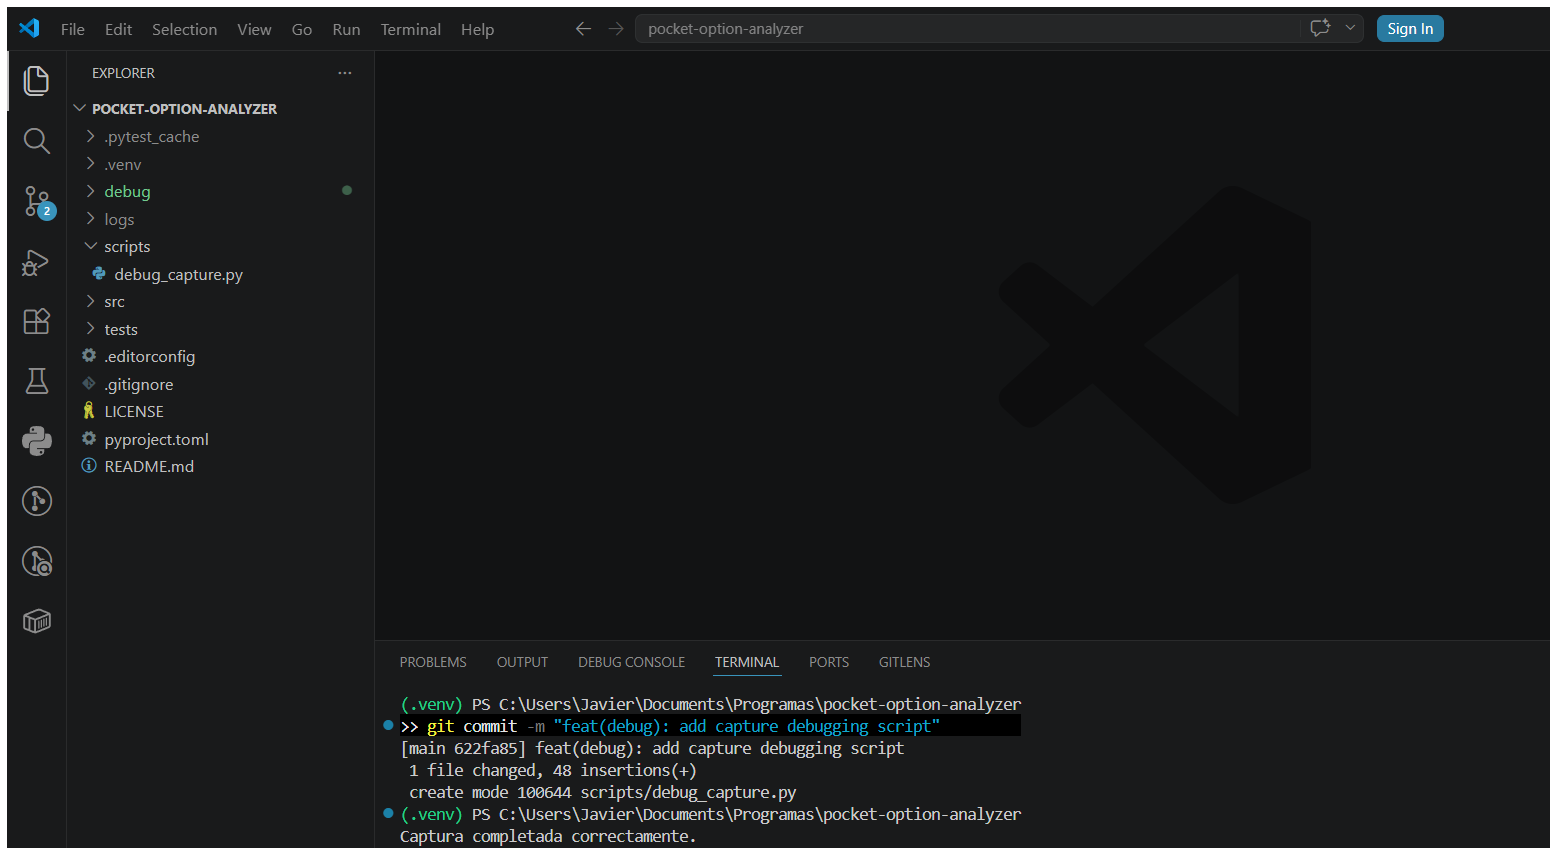
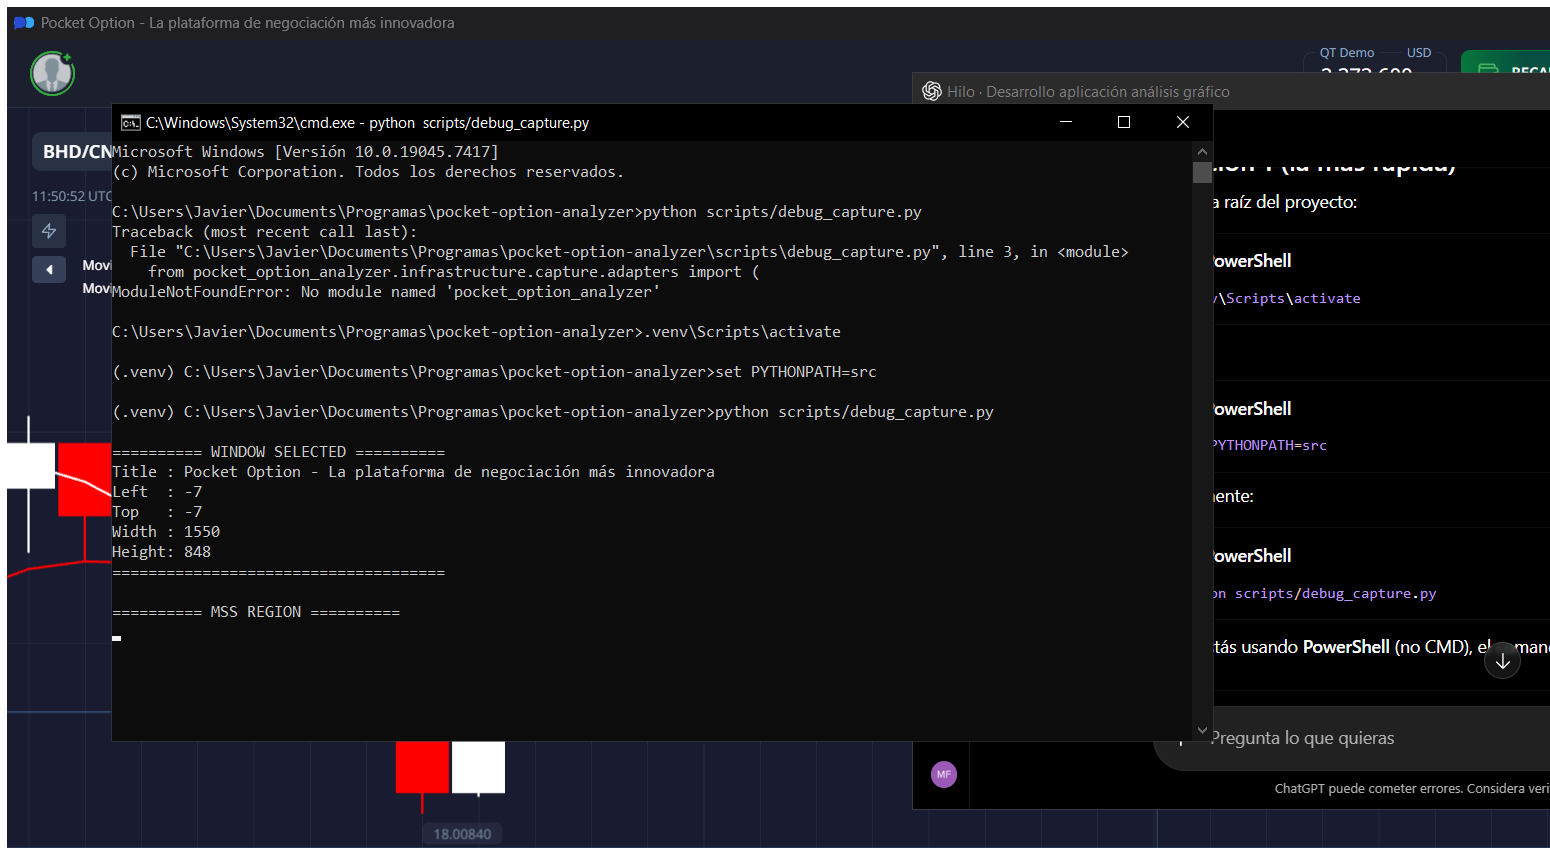
feat(capture): add window enumerator

diff --git a/src/pocket_option_analyzer/infrastructure/capture/adapters/win32_window_locator.py b/src/pocket_option_analyzer/infrastructure/capture/adapters/win32_window_locator.py
@@ -1,43 +1,57 @@
 from __future__ import annotations
 
-from typing import Optional
-
-import pygetwindow as gw
+from typing import Iterable
 
 from pocket_option_analyzer.infrastructure.capture.models import WindowInfo
+
+from .window_enumerator import WindowEnumerator
 
 
 class Win32WindowLocator:
     """
-    Localiza la ventana de Pocket Option utilizando la API de Windows
-    a través de pygetwindow.
+    Localiza una ventana utilizando coincidencias parciales
+    sobre las ventanas visibles del sistema.
     """
 
-    def find(self, window_title: str) -> Optional[WindowInfo]:
+    def __init__(
+        self,
+        enumerator: WindowEnumerator | None = None,
+    ) -> None:
+        self._enumerator = enumerator or WindowEnumerator()
+
+    def find(self, window_title: str) -> WindowInfo | None:
         """
-        Busca una ventana cuyo título contenga el texto indicado.
+        Busca la mejor coincidencia.
 
         Parameters
         ----------
         window_title:
-            Texto que debe contener el título de la ventana.
+            Texto a buscar.
 
         Returns
         -------
         WindowInfo | None
         """
 
-        windows = gw.getWindowsWithTitle(window_title)
+        candidates = list(self._enumerator.enumerate())
 
-        if not windows:
+        if not candidates:
             return None
 
-        window = windows[0]
+        search = window_title.lower()
 
-        return WindowInfo(
-            title=window.title,
-            left=window.left,
-            top=window.top,
-            width=window.width,
-            height=window.height,
+        matches = [
+            window
+            for window in candidates
+            if search in window.title.lower()
+        ]
+
+        if not matches:
+            return None
+
+        matches.sort(
+            key=lambda window: window.width * window.height,
+            reverse=True,
         )
+
+        return matches[0]

diff --git a/src/pocket_option_analyzer/infrastructure/capture/services/capture_service.py b/src/pocket_option_analyzer/infrastructure/capture/services/capture_service.py
@@ -37,6 +37,15 @@ class CaptureService:
         Captura un único fotograma.
         """
         window = self._locator.find(self._window_title)
+        print("\n========== WINDOW SELECTED ==========")
+        print(f"Title : {window.title if window else None}")
+
+        if window:
+            print(f"Left  : {window.left}")
+            print(f"Top   : {window.top}")
+            print(f"Width : {window.width}")
+            print(f"Height: {window.height}")
+        print("=====================================\n")
 
         if window is None:
             return None

diff --git a/src/pocket_option_analyzer/infrastructure/capture/adapters/mss_capture_adapter.py b/src/pocket_option_analyzer/infrastructure/capture/adapters/mss_capture_adapter.py
@@ -36,6 +36,9 @@ class MSSCaptureAdapter:
         }
 
         with mss.MSS() as sct:
+            print("========== MSS REGION ==========")
+            print(monitor)
+            print("===============================\n")
             image = sct.grab(monitor)
 
         return np.asarray(image)
